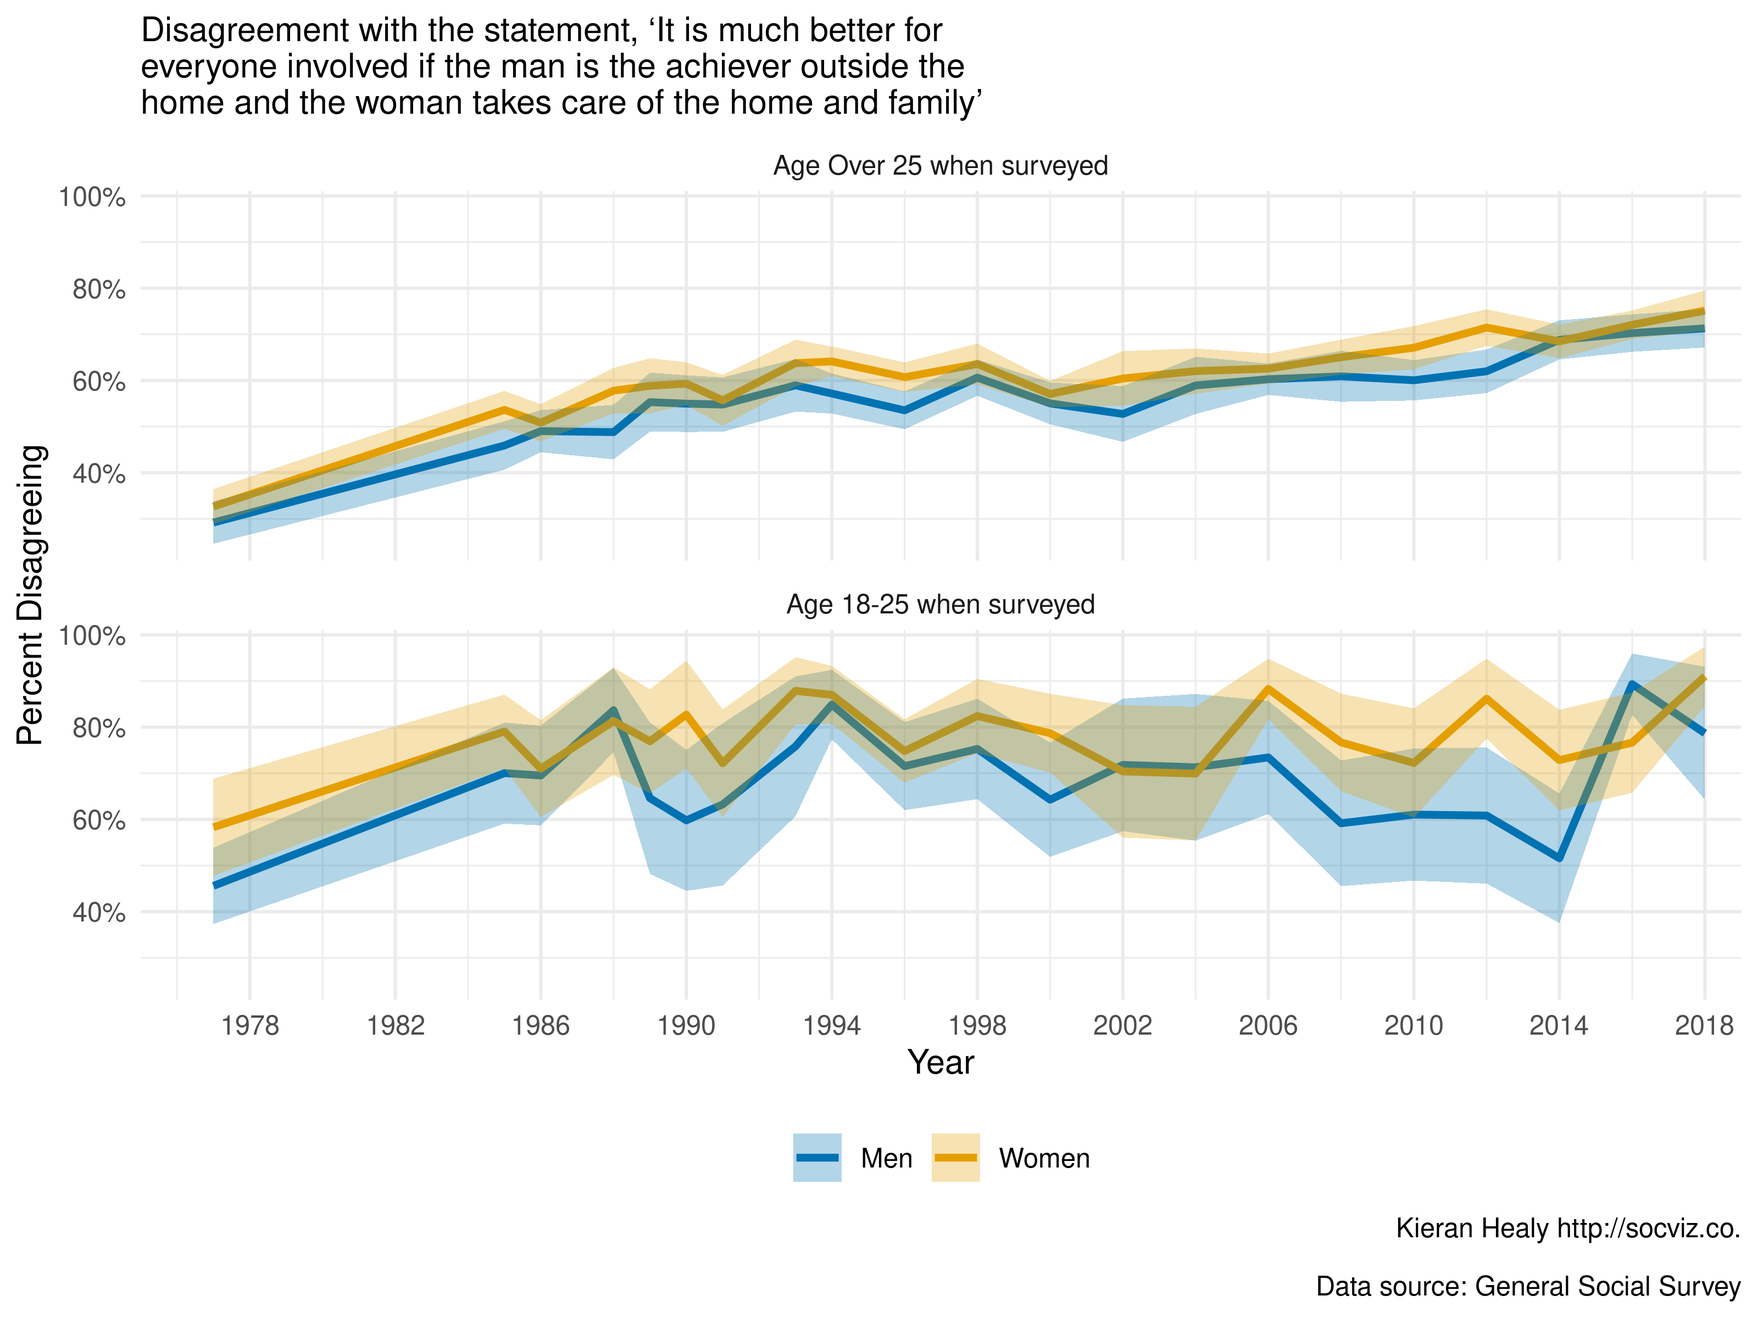
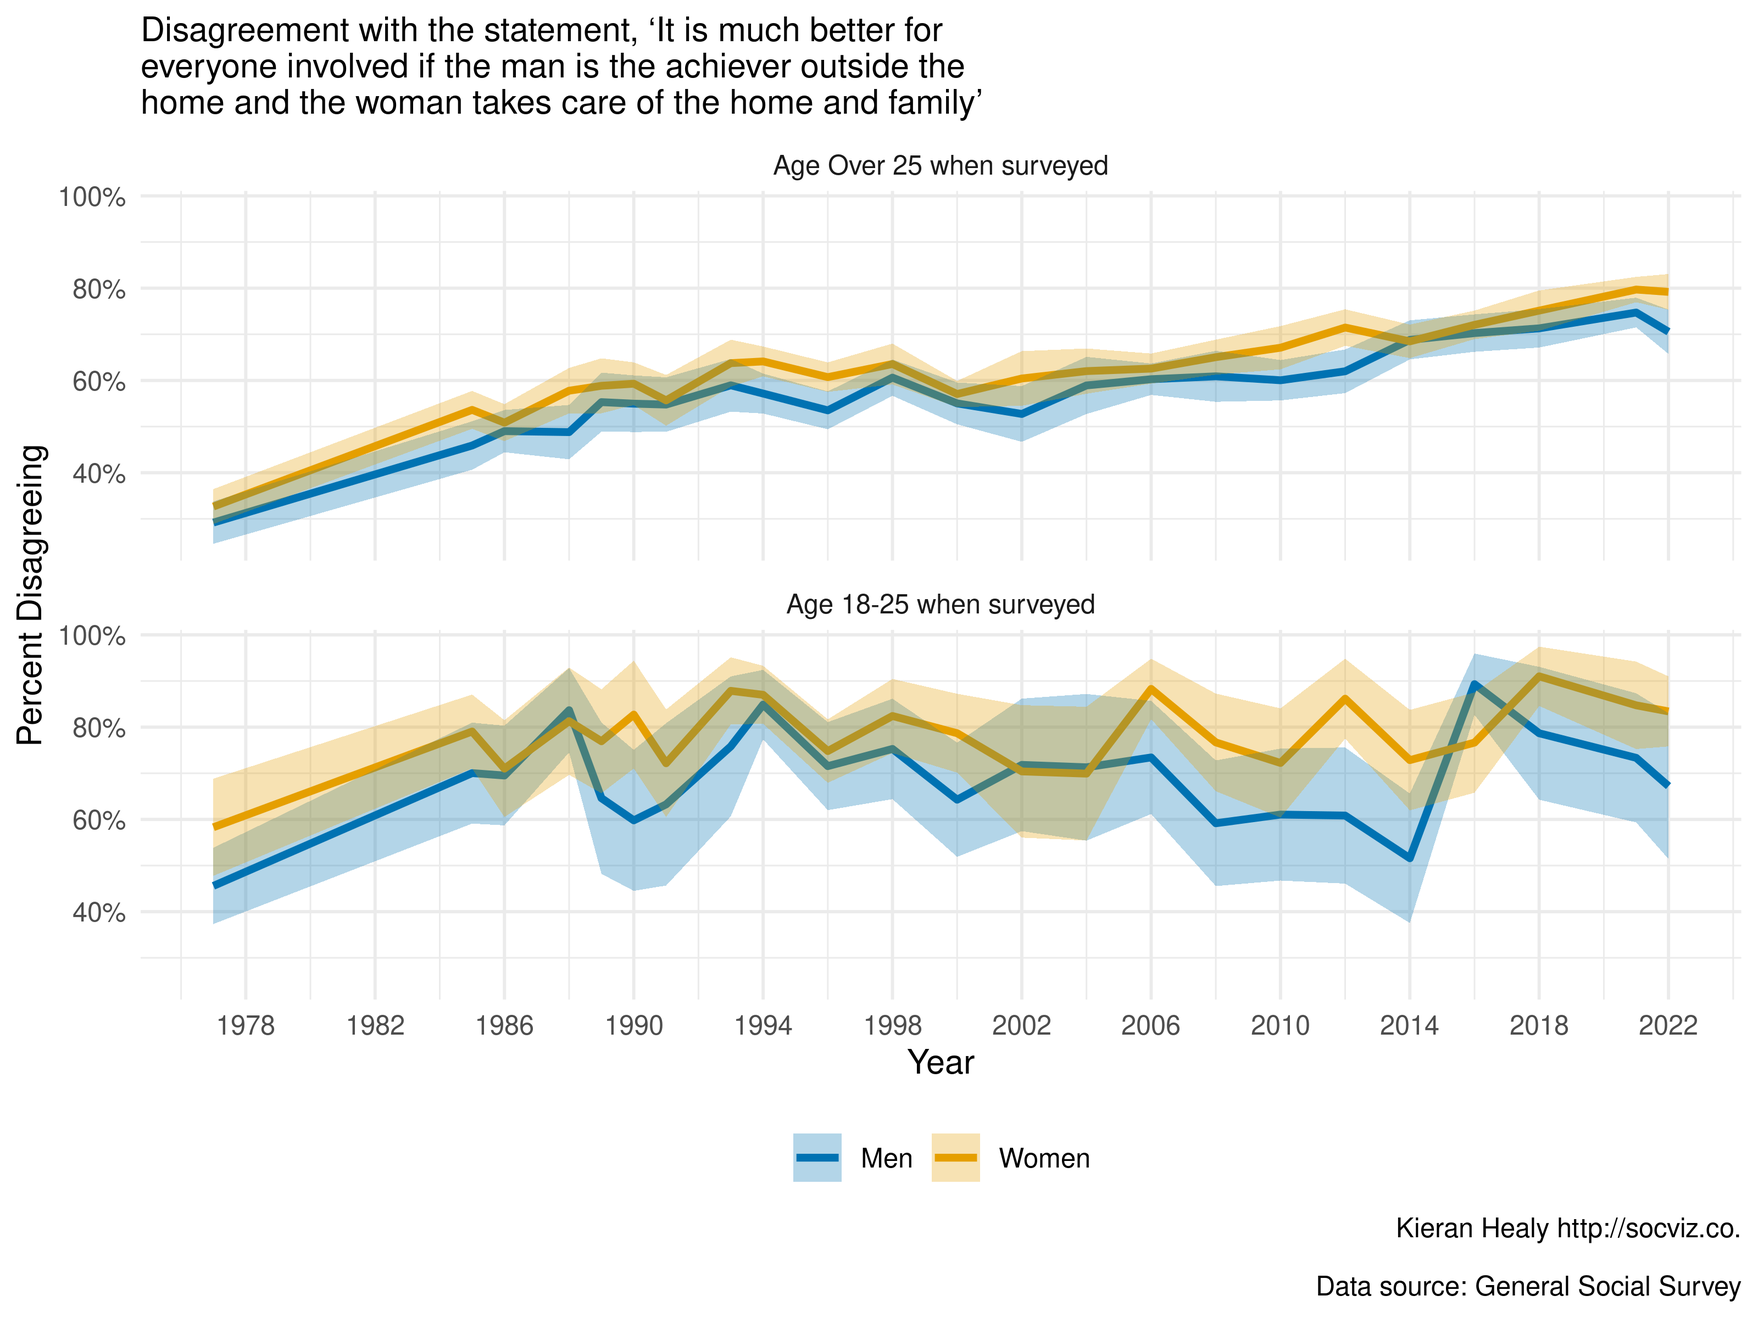
Deploying to gh-pages from @ kjhealy/gssr@db633d23189694e865db786003505c42f4c2ae0a 🚀

diff --git a/articles/overview.html b/articles/overview.html
@@ -370,7 +370,7 @@ instead.</p>
 <span>    <span class="fu"><a href="https://dplyr.tidyverse.org/reference/across.html" class="external-link">across</a></span><span class="op">(</span><span class="fu"><a href="https://tidyselect.r-lib.org/reference/all_of.html" class="external-link">all_of</a></span><span class="op">(</span><span class="va">wt_vars</span><span class="op">)</span>, <span class="va">as.numeric</span><span class="op">)</span>,</span>
 <span>    <span class="co"># Make all categorical variables factors and relabel nicely</span></span>
 <span>    <span class="fu"><a href="https://dplyr.tidyverse.org/reference/across.html" class="external-link">across</a></span><span class="op">(</span><span class="fu"><a href="https://tidyselect.r-lib.org/reference/all_of.html" class="external-link">all_of</a></span><span class="op">(</span><span class="va">cat_vars</span><span class="op">)</span>, <span class="fu">forcats</span><span class="fu">::</span><span class="va"><a href="https://forcats.tidyverse.org/reference/as_factor.html" class="external-link">as_factor</a></span><span class="op">)</span>,</span>
-<span>    <span class="fu"><a href="https://dplyr.tidyverse.org/reference/across.html" class="external-link">across</a></span><span class="op">(</span><span class="fu"><a href="https://tidyselect.r-lib.org/reference/all_of.html" class="external-link">all_of</a></span><span class="op">(</span><span class="va">cat_vars</span><span class="op">)</span>, <span class="fu">forcats</span><span class="fu">::</span><span class="va"><a href="https://forcats.tidyverse.org/reference/fct_relabel.html" class="external-link">fct_relabel</a></span>, <span class="va">capwords</span>, strict <span class="op">=</span> <span class="cn">TRUE</span><span class="op">)</span>,</span>
+<span>    <span class="fu"><a href="https://dplyr.tidyverse.org/reference/across.html" class="external-link">across</a></span><span class="op">(</span><span class="fu"><a href="https://tidyselect.r-lib.org/reference/all_of.html" class="external-link">all_of</a></span><span class="op">(</span><span class="va">cat_vars</span><span class="op">)</span>, \<span class="op">(</span><span class="va">x</span><span class="op">)</span> <span class="fu">forcats</span><span class="fu">::</span><span class="fu"><a href="https://forcats.tidyverse.org/reference/fct_relabel.html" class="external-link">fct_relabel</a></span><span class="op">(</span><span class="va">x</span>, <span class="va">capwords</span>, strict <span class="op">=</span> <span class="cn">TRUE</span><span class="op">)</span><span class="op">)</span>,</span>
 <span>    <span class="co"># Create the age groups</span></span>
 <span>    ageq <span class="op">=</span> <span class="fu"><a href="https://rdrr.io/r/base/cut.html" class="external-link">cut</a></span><span class="op">(</span>x <span class="op">=</span> <span class="va">age</span>, breaks <span class="op">=</span> <span class="fu"><a href="https://rdrr.io/r/base/unique.html" class="external-link">unique</a></span><span class="op">(</span><span class="va">qrts</span><span class="op">)</span>, include.lowest <span class="op">=</span> <span class="cn">TRUE</span><span class="op">)</span>,</span>
 <span>    ageq <span class="op">=</span>  <span class="fu">forcats</span><span class="fu">::</span><span class="fu"><a href="https://forcats.tidyverse.org/reference/fct_relabel.html" class="external-link">fct_relabel</a></span><span class="op">(</span><span class="va">ageq</span>, <span class="va">convert_agegrp</span><span class="op">)</span>, </span>
@@ -384,23 +384,9 @@ instead.</p>
 <span>                                  Agree <span class="op">=</span> <span class="st">"Strongly Agree"</span>,</span>
 <span>                                  Disagree <span class="op">=</span> <span class="st">"Strongly Disagree"</span><span class="op">)</span>,</span>
 <span>    fefam_n <span class="op">=</span> <span class="fu"><a href="https://dplyr.tidyverse.org/reference/recode.html" class="external-link">recode</a></span><span class="op">(</span><span class="va">fefam_d</span>, <span class="st">"Agree"</span> <span class="op">=</span> <span class="fl">0</span>, <span class="st">"Disagree"</span> <span class="op">=</span> <span class="fl">1</span><span class="op">)</span>,</span>
-<span>    <span class="co"># Weights</span></span>
-<span>    compwt <span class="op">=</span> <span class="va">oversamp</span> <span class="op">*</span> <span class="va">formwt</span> <span class="op">*</span> <span class="va">wtssps</span>, </span>
 <span>    samplerc <span class="op">=</span> <span class="fu"><a href="https://dplyr.tidyverse.org/reference/case_when.html" class="external-link">case_when</a></span><span class="op">(</span><span class="va">sample</span> <span class="op"><a href="https://rdrr.io/r/base/match.html" class="external-link">%in%</a></span> <span class="fu"><a href="https://rdrr.io/r/base/c.html" class="external-link">c</a></span><span class="op">(</span><span class="fl">3</span><span class="op">:</span><span class="fl">4</span><span class="op">)</span> <span class="op">~</span> <span class="fl">3</span>, </span>
 <span>                              <span class="va">sample</span> <span class="op"><a href="https://rdrr.io/r/base/match.html" class="external-link">%in%</a></span> <span class="fu"><a href="https://rdrr.io/r/base/c.html" class="external-link">c</a></span><span class="op">(</span><span class="fl">6</span><span class="op">:</span><span class="fl">7</span><span class="op">)</span> <span class="op">~</span> <span class="fl">6</span>,</span>
 <span>                              <span class="cn">TRUE</span> <span class="op">~</span> <span class="va">sample</span><span class="op">)</span><span class="op">)</span></span>
-<span><span class="co">#&gt; Warning: There was 1 warning in `mutate()`.</span></span>
-<span><span class="co">#&gt; <span style="color: #00BBBB;">ℹ</span> In argument: `across(all_of(cat_vars), forcats::fct_relabel, capwords, strict</span></span>
-<span><span class="co">#&gt;   = TRUE)`.</span></span>
-<span><span class="co">#&gt; Caused by warning:</span></span>
-<span><span class="co">#&gt; <span style="color: #BBBB00;">!</span> The `...` argument of `across()` is deprecated as of dplyr 1.1.0.</span></span>
-<span><span class="co">#&gt; Supply arguments directly to `.fns` through an anonymous function instead.</span></span>
-<span><span class="co">#&gt; </span></span>
-<span><span class="co">#&gt;   # Previously</span></span>
-<span><span class="co">#&gt;   across(a:b, mean, na.rm = TRUE)</span></span>
-<span><span class="co">#&gt; </span></span>
-<span><span class="co">#&gt;   # Now</span></span>
-<span><span class="co">#&gt;   across(a:b, \(x) mean(x, na.rm = TRUE))</span></span>
 <span></span>
 <span><span class="co">## Some of the recoded variables</span></span>
 <span><span class="va">gss_fam</span> <span class="op">|&gt;</span></span>
@@ -460,7 +446,7 @@ wrappers to <code>survey</code> for this.</p>
 <span><span class="fu"><a href="https://rdrr.io/r/base/options.html" class="external-link">options</a></span><span class="op">(</span>na.action<span class="op">=</span><span class="st">"na.pass"</span><span class="op">)</span></span>
 <span></span>
 <span><span class="va">gss_svy</span> <span class="op">&lt;-</span> <span class="va">gss_fam</span> <span class="op">|&gt;</span></span>
-<span>    <span class="fu"><a href="https://dplyr.tidyverse.org/reference/filter.html" class="external-link">filter</a></span><span class="op">(</span><span class="va">year</span> <span class="op">&gt;</span> <span class="fl">1974</span> <span class="op">&amp;</span> <span class="va">year</span> <span class="op">&lt;</span> <span class="fl">2021</span><span class="op">)</span> <span class="op">|&gt;</span></span>
+<span>    <span class="fu"><a href="https://dplyr.tidyverse.org/reference/filter.html" class="external-link">filter</a></span><span class="op">(</span><span class="va">year</span> <span class="op">&gt;</span> <span class="fl">1974</span><span class="op">)</span> <span class="op">|&gt;</span></span>
 <span>    <span class="fu">tidyr</span><span class="fu">::</span><span class="fu"><a href="https://tidyr.tidyverse.org/reference/drop_na.html" class="external-link">drop_na</a></span><span class="op">(</span><span class="va">fefam_d</span>, <span class="va">young</span><span class="op">)</span> <span class="op">|&gt;</span></span>
 <span>    <span class="fu"><a href="https://dplyr.tidyverse.org/reference/mutate.html" class="external-link">mutate</a></span><span class="op">(</span>stratvar <span class="op">=</span> <span class="fu"><a href="https://rdrr.io/r/base/interaction.html" class="external-link">interaction</a></span><span class="op">(</span><span class="va">year</span>, <span class="va">vstrat</span><span class="op">)</span><span class="op">)</span> <span class="op">|&gt;</span></span>
 <span>    <span class="fu"><a href="http://gdfe.co/srvyr/reference/as_survey_design.html" class="external-link">as_survey_design</a></span><span class="op">(</span>id <span class="op">=</span> <span class="va">vpsu</span>,</span>
@@ -474,7 +460,7 @@ work with:</p>
 <div class="sourceCode" id="cb10"><pre class="downlit sourceCode r">
 <code class="sourceCode R"><span><span class="va">gss_svy</span></span>
 <span><span class="co">#&gt; Stratified 1 - level Cluster Sampling design (with replacement)</span></span>
-<span><span class="co">#&gt; With (3583) clusters.</span></span>
+<span><span class="co">#&gt; With (5977) clusters.</span></span>
 <span><span class="co">#&gt; Called via srvyr</span></span>
 <span><span class="co">#&gt; Sampling variables:</span></span>
 <span><span class="co">#&gt;  - ids: vpsu</span></span>
@@ -484,7 +470,7 @@ work with:</p>
 <span><span class="co">#&gt;   (fct), sex (fct), fefam (fct), vpsu (dbl), vstrat (dbl), oversamp (dbl),</span></span>
 <span><span class="co">#&gt;   formwt (dbl), wtssps (dbl), sampcode (dbl), sample (dbl), ageq (fct),</span></span>
 <span><span class="co">#&gt;   agequint (fct), year_f (fct), young (chr), fefam_d (fct), fefam_n (dbl),</span></span>
-<span><span class="co">#&gt;   compwt (dbl), samplerc (dbl), stratvar (fct)</span></span></code></pre></div>
+<span><span class="co">#&gt;   samplerc (dbl), stratvar (fct)</span></span></code></pre></div>
 </div>
 <div class="section level3">
 <h3 id="calculate-the-survey-weighted-statistics">Calculate the survey-weighted statistics<a class="anchor" aria-label="anchor" href="#calculate-the-survey-weighted-statistics"></a>
@@ -496,11 +482,12 @@ the data.</p>
 <code class="sourceCode R"><span><span class="co">## Get the breakdown for every year</span></span>
 <span><span class="va">out_ff</span> <span class="op">&lt;-</span> <span class="va">gss_svy</span> <span class="op">|&gt;</span></span>
 <span>    <span class="fu"><a href="https://dplyr.tidyverse.org/reference/group_by.html" class="external-link">group_by</a></span><span class="op">(</span><span class="va">year</span>, <span class="va">sex</span>, <span class="va">young</span>, <span class="va">fefam_d</span><span class="op">)</span> <span class="op">|&gt;</span></span>
-<span>    <span class="fu"><a href="https://dplyr.tidyverse.org/reference/summarise.html" class="external-link">summarize</a></span><span class="op">(</span>prop <span class="op">=</span> <span class="fu"><a href="http://gdfe.co/srvyr/reference/survey_mean.html" class="external-link">survey_mean</a></span><span class="op">(</span>na.rm <span class="op">=</span> <span class="cn">TRUE</span>, vartype <span class="op">=</span> <span class="st">"ci"</span><span class="op">)</span><span class="op">)</span></span>
+<span>    <span class="fu"><a href="https://dplyr.tidyverse.org/reference/summarise.html" class="external-link">summarize</a></span><span class="op">(</span>prop <span class="op">=</span> <span class="fu"><a href="http://gdfe.co/srvyr/reference/survey_mean.html" class="external-link">survey_mean</a></span><span class="op">(</span>na.rm <span class="op">=</span> <span class="cn">TRUE</span>, vartype <span class="op">=</span> <span class="st">"ci"</span><span class="op">)</span><span class="op">)</span> <span class="op">|&gt;</span> </span>
+<span>  <span class="fu"><a href="https://tidyr.tidyverse.org/reference/drop_na.html" class="external-link">drop_na</a></span><span class="op">(</span><span class="va">sex</span><span class="op">)</span></span>
 <span></span>
 <span><span class="va">out_ff</span></span>
-<span><span class="co">#&gt; <span style="color: #949494;"># A tibble: 168 × 7</span></span></span>
-<span><span class="co">#&gt; <span style="color: #949494;"># Groups:   year, sex, young [84]</span></span></span>
+<span><span class="co">#&gt; <span style="color: #949494;"># A tibble: 184 × 7</span></span></span>
+<span><span class="co">#&gt; <span style="color: #949494;"># Groups:   year, sex, young [92]</span></span></span>
 <span><span class="co">#&gt;    year      sex    young fefam_d   prop prop_low prop_upp</span></span>
 <span><span class="co">#&gt;    <span style="color: #949494; font-style: italic;">&lt;dbl+lbl&gt;</span> <span style="color: #949494; font-style: italic;">&lt;fct&gt;</span>  <span style="color: #949494; font-style: italic;">&lt;chr&gt;</span> <span style="color: #949494; font-style: italic;">&lt;fct&gt;</span>    <span style="color: #949494; font-style: italic;">&lt;dbl&gt;</span>    <span style="color: #949494; font-style: italic;">&lt;dbl&gt;</span>    <span style="color: #949494; font-style: italic;">&lt;dbl&gt;</span></span></span>
 <span><span class="co">#&gt; <span style="color: #BCBCBC;"> 1</span> <span style="text-decoration: underline;">1</span>977      Male   No    Agree    0.708    0.662    0.754</span></span>
@@ -513,7 +500,7 @@ the data.</p>
 <span><span class="co">#&gt; <span style="color: #BCBCBC;"> 8</span> <span style="text-decoration: underline;">1</span>977      Female Yes   Disagree 0.583    0.478    0.688</span></span>
 <span><span class="co">#&gt; <span style="color: #BCBCBC;"> 9</span> <span style="text-decoration: underline;">1</span>985      Male   No    Agree    0.541    0.489    0.594</span></span>
 <span><span class="co">#&gt; <span style="color: #BCBCBC;">10</span> <span style="text-decoration: underline;">1</span>985      Male   No    Disagree 0.459    0.406    0.511</span></span>
-<span><span class="co">#&gt; <span style="color: #949494;"># ℹ 158 more rows</span></span></span></code></pre></div>
+<span><span class="co">#&gt; <span style="color: #949494;"># ℹ 174 more rows</span></span></span></code></pre></div>
 </div>
 <div class="section level3">
 <h3 id="plot-the-results">Plot the Results<a class="anchor" aria-label="anchor" href="#plot-the-results"></a>
@@ -538,7 +525,7 @@ over time, for men and women in two (recoded) age groups over time.</p>
 <span>               fill <span class="op">=</span> <span class="va">sex</span><span class="op">)</span><span class="op">)</span> <span class="op">+</span></span>
 <span>  <span class="fu"><a href="https://ggplot2.tidyverse.org/reference/geom_path.html" class="external-link">geom_line</a></span><span class="op">(</span>linewidth <span class="op">=</span> <span class="fl">1.2</span><span class="op">)</span> <span class="op">+</span></span>
 <span>  <span class="fu"><a href="https://ggplot2.tidyverse.org/reference/geom_ribbon.html" class="external-link">geom_ribbon</a></span><span class="op">(</span>alpha <span class="op">=</span> <span class="fl">0.3</span>, color <span class="op">=</span> <span class="cn">NA</span><span class="op">)</span> <span class="op">+</span></span>
-<span>  <span class="fu"><a href="https://ggplot2.tidyverse.org/reference/scale_continuous.html" class="external-link">scale_x_continuous</a></span><span class="op">(</span>breaks <span class="op">=</span> <span class="fu"><a href="https://rdrr.io/r/base/seq.html" class="external-link">seq</a></span><span class="op">(</span><span class="fl">1978</span>, <span class="fl">2018</span>, <span class="fl">4</span><span class="op">)</span><span class="op">)</span> <span class="op">+</span></span>
+<span>  <span class="fu"><a href="https://ggplot2.tidyverse.org/reference/scale_continuous.html" class="external-link">scale_x_continuous</a></span><span class="op">(</span>breaks <span class="op">=</span> <span class="fu"><a href="https://rdrr.io/r/base/seq.html" class="external-link">seq</a></span><span class="op">(</span><span class="fl">1978</span>, <span class="fl">2022</span>, <span class="fl">4</span><span class="op">)</span><span class="op">)</span> <span class="op">+</span></span>
 <span>  <span class="fu"><a href="https://ggplot2.tidyverse.org/reference/scale_continuous.html" class="external-link">scale_y_continuous</a></span><span class="op">(</span>labels <span class="op">=</span> <span class="fu">scales</span><span class="fu">::</span><span class="fu"><a href="https://scales.r-lib.org/reference/percent_format.html" class="external-link">percent_format</a></span><span class="op">(</span>accuracy <span class="op">=</span> <span class="fl">1</span><span class="op">)</span><span class="op">)</span> <span class="op">+</span></span>
 <span>  <span class="fu"><a href="https://ggplot2.tidyverse.org/reference/scale_manual.html" class="external-link">scale_color_manual</a></span><span class="op">(</span>values <span class="op">=</span> <span class="fu">my_colors</span><span class="op">(</span><span class="st">"bly"</span><span class="op">)</span><span class="op">[</span><span class="fl">2</span><span class="op">:</span><span class="fl">1</span><span class="op">]</span>,</span>
 <span>                     labels <span class="op">=</span> <span class="fu"><a href="https://rdrr.io/r/base/c.html" class="external-link">c</a></span><span class="op">(</span><span class="st">"Men"</span>, <span class="st">"Women"</span><span class="op">)</span>,</span>
@@ -548,7 +535,7 @@ over time, for men and women in two (recoded) age groups over time.</p>
 <span>                    guide <span class="op">=</span> <span class="fu"><a href="https://ggplot2.tidyverse.org/reference/guide_legend.html" class="external-link">guide_legend</a></span><span class="op">(</span>title<span class="op">=</span><span class="cn">NULL</span><span class="op">)</span><span class="op">)</span> <span class="op">+</span></span>
 <span>  <span class="fu"><a href="https://ggplot2.tidyverse.org/reference/facet_wrap.html" class="external-link">facet_wrap</a></span><span class="op">(</span><span class="op">~</span> <span class="va">young</span>, labeller <span class="op">=</span> <span class="fu"><a href="https://ggplot2.tidyverse.org/reference/as_labeller.html" class="external-link">as_labeller</a></span><span class="op">(</span><span class="va">facet_names</span><span class="op">)</span>,</span>
 <span>             ncol <span class="op">=</span> <span class="fl">1</span><span class="op">)</span> <span class="op">+</span></span>
-<span>  <span class="fu"><a href="https://ggplot2.tidyverse.org/reference/coord_cartesian.html" class="external-link">coord_cartesian</a></span><span class="op">(</span>xlim <span class="op">=</span> <span class="fu"><a href="https://rdrr.io/r/base/c.html" class="external-link">c</a></span><span class="op">(</span><span class="fl">1977</span>, <span class="fl">2017</span><span class="op">)</span><span class="op">)</span> <span class="op">+</span></span>
+<span>  <span class="fu"><a href="https://ggplot2.tidyverse.org/reference/coord_cartesian.html" class="external-link">coord_cartesian</a></span><span class="op">(</span>xlim <span class="op">=</span> <span class="fu"><a href="https://rdrr.io/r/base/c.html" class="external-link">c</a></span><span class="op">(</span><span class="fl">1977</span>, <span class="fl">2022</span><span class="op">)</span><span class="op">)</span> <span class="op">+</span></span>
 <span>  <span class="fu"><a href="https://ggplot2.tidyverse.org/reference/labs.html" class="external-link">labs</a></span><span class="op">(</span>x <span class="op">=</span> <span class="st">"Year"</span>,</span>
 <span>       y <span class="op">=</span> <span class="st">"Percent Disagreeing"</span>,</span>
 <span>       subtitle <span class="op">=</span> <span class="va">fefam_txt</span>,</span>
